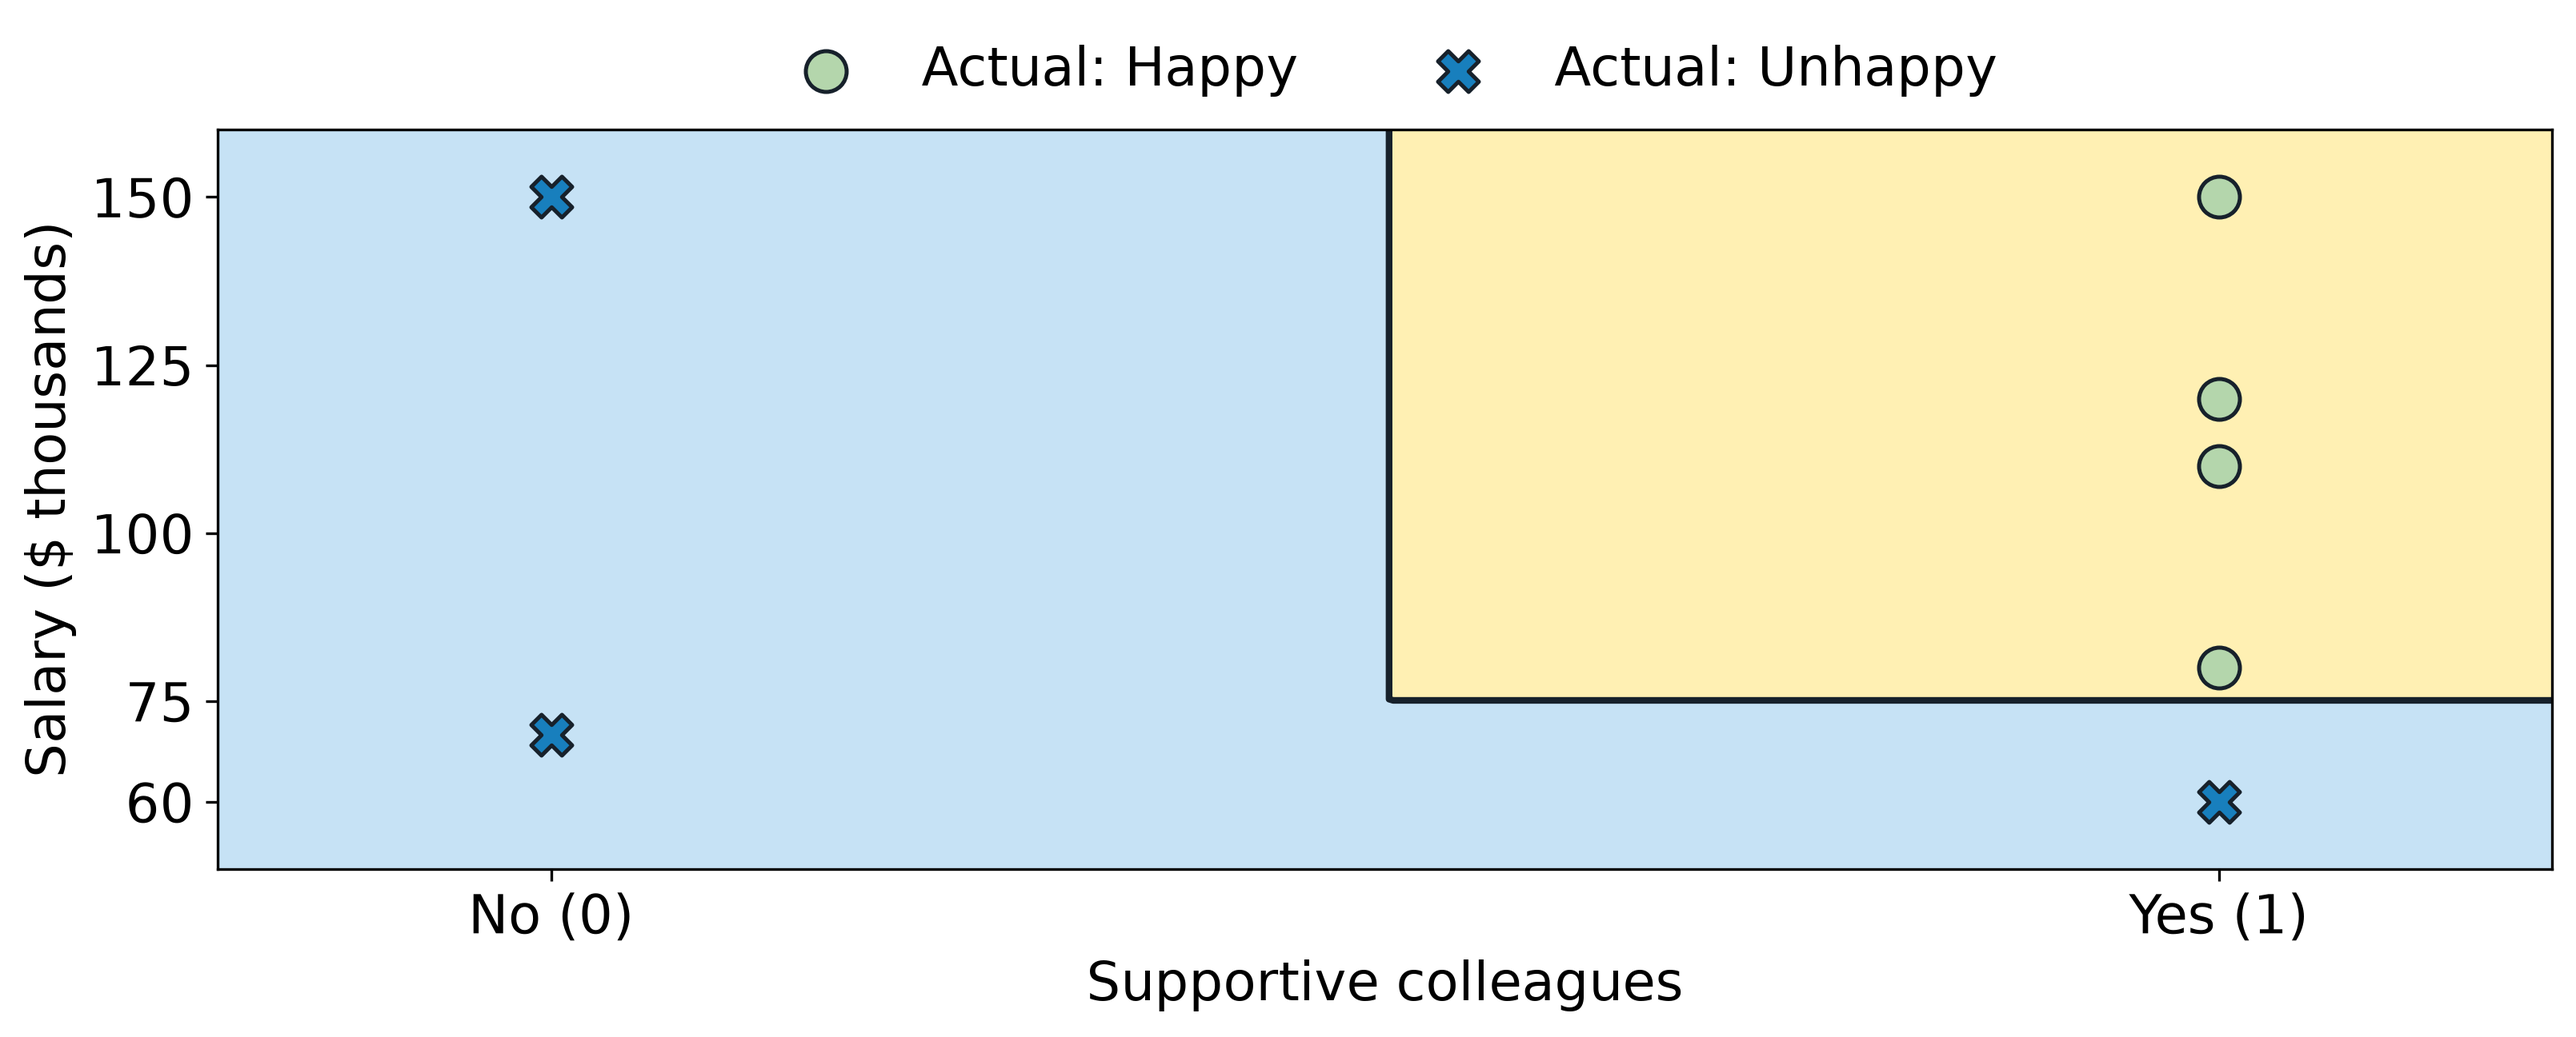
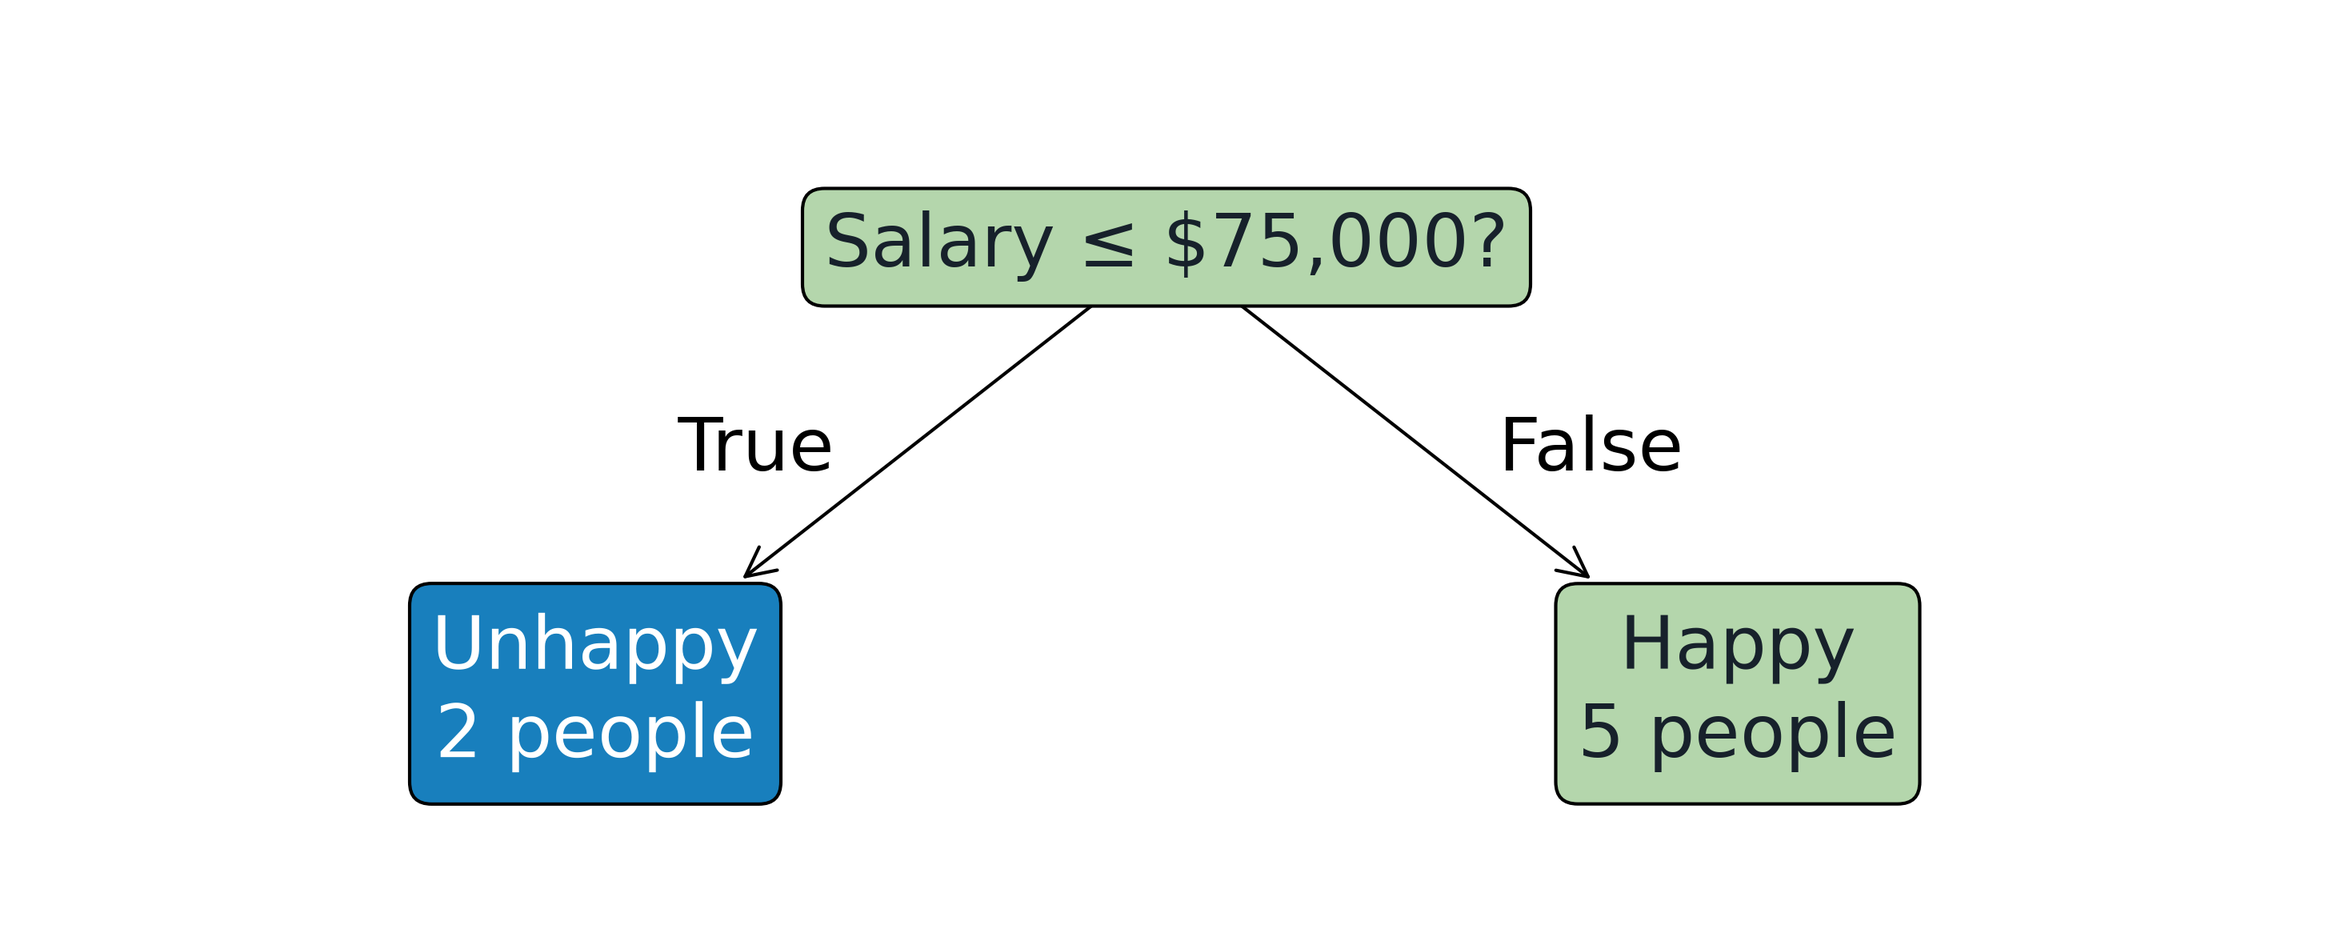
updates to lecture 2

diff --git a/website/slides/code/plotting_functions.py b/website/slides/code/plotting_functions.py
@@ -1,5 +1,6 @@
 from utils import *
 import matplotlib.pyplot as plt
+from matplotlib.ticker import MaxNLocator, FuncFormatter
 import mglearn
 from imageio import imread
 from sklearn.neighbors import KNeighborsClassifier, KNeighborsRegressor
@@ -68,15 +69,41 @@ def plot_tree_decision_boundary_and_tree(
         1,
         2,
         figsize=(width, height),
-        subplot_kw={"xticks": (), "yticks": ()},
+        layout="constrained",
         gridspec_kw={"width_ratios": [1.5, 2]},
     )
     plot_tree_decision_boundary(model, X, y, x_label, y_label, eps, ax=ax[0], min_padding = min_padding)
-    custom_plot_tree(model, 
+    # Keep numerical coordinates visible, including the learned split values.
+    for feature, axis in enumerate((ax[0].xaxis, ax[0].yaxis)):
+        lower, upper = axis.get_view_interval()
+        observed = np.unique(X.iloc[:, feature])
+        ticks = (observed if len(observed) <= 2
+                 else MaxNLocator(nbins=4).tick_values(lower, upper))
+        ticks = ticks[(ticks >= lower) & (ticks <= upper)]
+        thresholds = np.unique(model.tree_.threshold[model.tree_.feature == feature])
+        thresholds = thresholds[(thresholds >= lower) & (thresholds <= upper)]
+        # Avoid crowded axes for deep trees with many distinct thresholds.
+        if len(thresholds) <= 6:
+            ticks = [tick for tick in ticks
+                     if not np.any(np.abs(thresholds - tick) < 0.08 * (upper - lower))]
+            ticks = np.unique(np.r_[ticks, thresholds])
+        axis.set_ticks(ticks)
+        axis.set_major_formatter(FuncFormatter(
+            lambda value, _: f"{value:,.6f}".rstrip("0").rstrip(".")
+        ))
+    ax[0].tick_params(labelsize=12)
+
+    # Draw into the same figure; custom_plot_tree calls show() prematurely.
+    annotations = plot_tree(model,
                  feature_names=X.columns.tolist(), 
                  class_names=class_names,
-                 impurity=False,
+                 impurity=False, filled=True,
                  fontsize=fontsize, ax=ax[1])
+    for annotation in annotations:
+        annotation.set_text("\n".join(
+            line for line in annotation.get_text().splitlines()
+            if not line.startswith("samples =")
+        ))
     ax[1].set_axis_off()
     plt.show()
     
